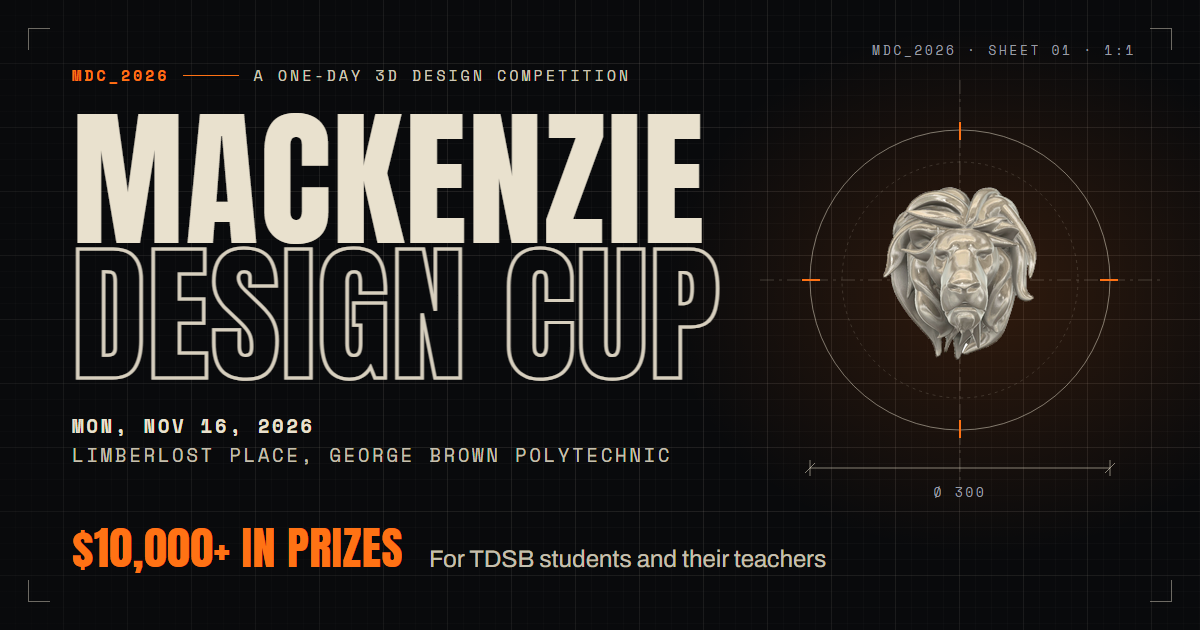
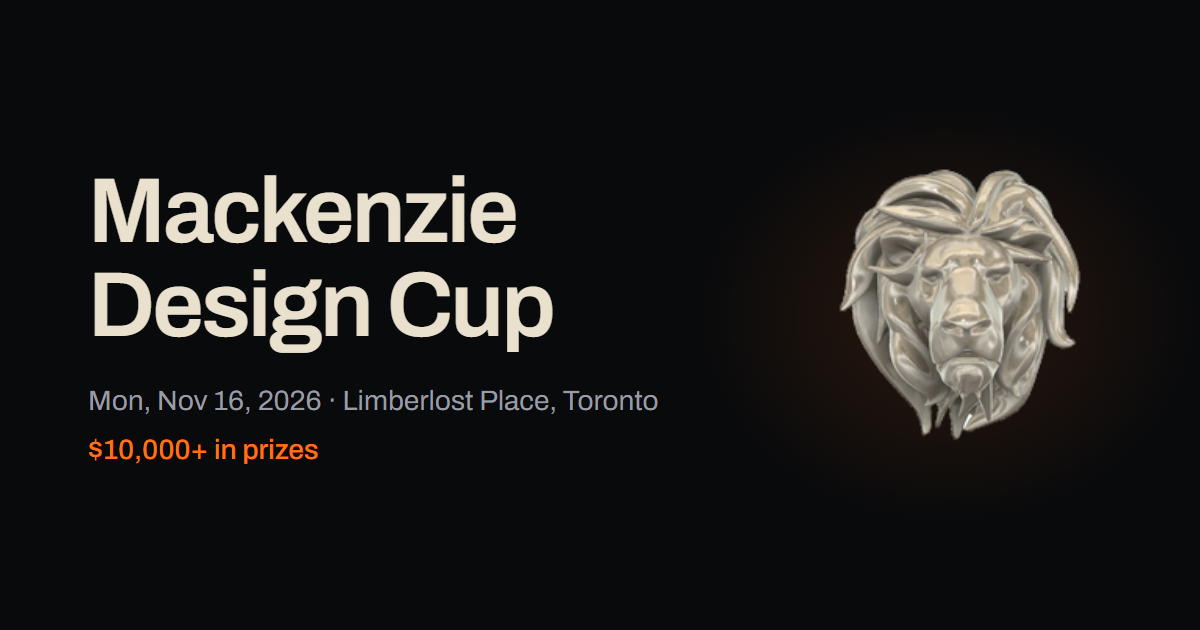
Social card in the site's minimal look: Archivo name, one grey line, prize in ember, the lion
Drops the grid, crop marks, mono labels and sheet number.

diff --git a/scripts/og/og.html b/scripts/og/og.html
@@ -1,19 +1,18 @@
 <!doctype html>
 <!--
-  The 1200x630 social card (public/og-image.png). A typed card composed from
-  the brand: the drafting-hall grid, the lion mark, the Anton wordmark, the
-  date and venue, the prize pool and who it is for. No stock, no AI.
+  The 1200x630 social card (public/og-image.png), in the site's quiet look:
+  the near-black page, the name set like a section heading (Archivo 600,
+  sentence case), one grey line for when and where, the prize pool in
+  ember, and the lion with the hall's one warm light behind it. No grid,
+  no mono labels. No stock, no AI.
   Rendered by scripts/og/render.mjs, which fills every double-brace slot from
   src/config/site.ts + src/content/copy.ts (via the SSR bundle) and inlines
-  the fonts and the lion as data URIs.
+  the font and the lion as data URIs.
 -->
 <html lang="en-CA">
 <head>
 <meta charset="UTF-8" />
 <style>
-  @font-face { font-family: "Anton"; src: url({{fontAnton}}) format("woff2"); font-weight: 400; }
-  @font-face { font-family: "Space Mono"; src: url({{fontMono}}) format("woff2"); font-weight: 400; }
-  @font-face { font-family: "Space Mono"; src: url({{fontMonoBold}}) format("woff2"); font-weight: 700; }
   @font-face { font-family: "Archivo"; src: url({{fontArchivo}}) format("woff2"); font-weight: 100 900; }
 
   :root {
@@ -26,109 +25,32 @@
   html, body { width: 1200px; height: 630px; background: var(--bg); overflow: hidden; }
   body { position: relative; color: hsl(var(--bone)); font-family: "Archivo", sans-serif; }
 
-  /* Two-level drafting grid, faded toward the edges. */
-  .grid {
-    position: absolute; inset: 0;
-    background-image:
-      linear-gradient(hsl(var(--bone) / 0.075) 1px, transparent 1px),
-      linear-gradient(90deg, hsl(var(--bone) / 0.075) 1px, transparent 1px),
-      linear-gradient(hsl(var(--bone) / 0.03) 1px, transparent 1px),
-      linear-gradient(90deg, hsl(var(--bone) / 0.03) 1px, transparent 1px);
-    background-size: 64px 64px, 64px 64px, 16px 16px, 16px 16px;
-    background-position: -1px -1px;
-    -webkit-mask-image: radial-gradient(120% 110% at 70% 45%, #000 35%, transparent 100%);
-            mask-image: radial-gradient(120% 110% at 70% 45%, #000 35%, transparent 100%);
-  }
-  /* Portal light from the right, the hall's one warm source. */
+  /* The hall's one warm source, behind the lion. */
   .glow {
     position: absolute; inset: 0;
-    background: radial-gradient(38% 60% at 82% 46%, hsl(var(--ember) / 0.16), transparent 70%);
+    background: radial-gradient(30% 48% at 79% 50%, hsl(var(--ember) / 0.14), transparent 70%);
   }
 
-  .crop { position: absolute; width: 22px; height: 22px; border-color: hsl(var(--bone) / 0.45); border-style: solid; border-width: 0; }
-  .crop.tl { left: 28px; top: 28px; border-left-width: 1px; border-top-width: 1px; }
-  .crop.tr { right: 28px; top: 28px; border-right-width: 1px; border-top-width: 1px; }
-  .crop.bl { left: 28px; bottom: 28px; border-left-width: 1px; border-bottom-width: 1px; }
-  .crop.br { right: 28px; bottom: 28px; border-right-width: 1px; border-bottom-width: 1px; }
-
-  .mono { font-family: "Space Mono", monospace; text-transform: uppercase; letter-spacing: 0.2em; }
-
-  .sheet { position: absolute; right: 64px; top: 40px; font-size: 13px; color: hsl(var(--concrete)); }
-
-  .copy { position: absolute; left: 72px; top: 64px; width: 700px; }
-  .eyebrow { display: flex; align-items: center; gap: 14px; font-size: 15px; color: hsl(var(--bone) / 0.9); }
-  .eyebrow .n { color: hsl(var(--ember)); font-weight: 700; }
-  .eyebrow .rule { width: 56px; height: 1px; background: hsl(var(--ember)); }
-
+  .copy { position: absolute; left: 88px; top: 0; bottom: 0; width: 660px; display: flex; flex-direction: column; justify-content: center; }
   h1 {
-    margin-top: 26px;
-    font-family: "Anton", sans-serif; font-weight: 400; text-transform: uppercase;
-    font-size: 150px; line-height: 0.9; letter-spacing: 0.01em;
+    font-weight: 600; font-size: 92px; line-height: 1.02; letter-spacing: -0.03em;
     color: hsl(var(--bone));
   }
-  h1 .wire { color: transparent; -webkit-text-stroke: 3px hsl(var(--bone) / 0.92); }
+  .when { margin-top: 30px; font-size: 28px; line-height: 1.35; color: hsl(var(--concrete)); }
+  .prize { margin-top: 14px; font-size: 28px; font-weight: 500; color: hsl(var(--ember)); }
 
-  .when {
-    margin-top: 30px; font-size: 19px; line-height: 1.55; letter-spacing: 0.14em; color: hsl(var(--bone) / 0.86);
-  }
-  .when b { font-weight: 700; color: hsl(var(--bone)); }
-  .foot { position: absolute; left: 72px; bottom: 58px; display: flex; align-items: baseline; gap: 26px; }
-  .prize {
-    font-family: "Anton", sans-serif; text-transform: uppercase; font-size: 46px; line-height: 1;
-    color: hsl(var(--ember)); letter-spacing: 0.01em;
-  }
-  .who { font-size: 24px; font-weight: 400; color: hsl(var(--bone) / 0.86); }
-
-  /* The mark in a construction frame: circle, centre lines, dimension. */
-  .mark { position: absolute; left: 790px; top: 110px; width: 340px; height: 340px; }
-  .mark svg { position: absolute; inset: 0; overflow: visible; }
-  .mark img { position: absolute; left: 74px; top: 74px; width: 192px; height: 192px; }
-  .dim-label { position: absolute; left: 0; right: 0; top: 372px; text-align: center; font-size: 13px; color: hsl(var(--concrete)); }
+  .mark { position: absolute; left: 810px; top: 165px; width: 300px; height: 300px; }
 </style>
 </head>
 <body>
-  <div class="grid"></div>
   <div class="glow"></div>
-  <i class="crop tl"></i><i class="crop tr"></i><i class="crop bl"></i><i class="crop br"></i>
-
-  <div class="sheet mono">{{model}} · Sheet 01 · 1:1</div>
 
   <div class="copy">
-    <div class="eyebrow mono"><span class="n">{{model}}</span><span class="rule"></span><span>{{kicker}}</span></div>
-    <h1><span>{{h1a}}</span><br /><span class="wire">{{h1b}}</span></h1>
-    <p class="when mono"><b>{{date}}</b><br />{{venue}}</p>
+    <h1>{{h1a}}<br />{{h1b}}</h1>
+    <p class="when">{{date}} · {{venue}}</p>
+    <p class="prize">{{prize}}</p>
   </div>
 
-  <div class="foot">
-    <span class="prize">{{prize}}</span>
-    <span class="who">{{audience}}</span>
-  </div>
-
-  <div class="mark">
-    <svg viewBox="0 0 340 340" aria-hidden="true">
-      <!-- centre lines, running past the circle like a drafting construction -->
-      <line x1="-30" y1="170" x2="370" y2="170" stroke="hsl(42 38% 86% / 0.22)" stroke-width="1" stroke-dasharray="14 5 3 5" />
-      <line x1="170" y1="-30" x2="170" y2="370" stroke="hsl(42 38% 86% / 0.22)" stroke-width="1" stroke-dasharray="14 5 3 5" />
-      <circle cx="170" cy="170" r="150" fill="none" stroke="hsl(42 38% 86% / 0.5)" stroke-width="1" />
-      <circle cx="170" cy="170" r="118" fill="none" stroke="hsl(42 38% 86% / 0.16)" stroke-width="1" stroke-dasharray="3 4" />
-      <!-- ember quadrant ticks -->
-      <g stroke="hsl(24 100% 54%)" stroke-width="2">
-        <line x1="170" y1="12" x2="170" y2="30" />
-        <line x1="328" y1="170" x2="310" y2="170" />
-        <line x1="170" y1="328" x2="170" y2="310" />
-        <line x1="12" y1="170" x2="30" y2="170" />
-      </g>
-      <!-- dimension: the circle's diameter -->
-      <g stroke="hsl(42 38% 86% / 0.55)" stroke-width="1">
-        <line x1="20" y1="358" x2="320" y2="358" />
-        <line x1="20" y1="350" x2="20" y2="366" />
-        <line x1="320" y1="350" x2="320" y2="366" />
-        <line x1="15" y1="363" x2="25" y2="353" />
-        <line x1="315" y1="363" x2="325" y2="353" />
-      </g>
-    </svg>
-    <img src="{{lion}}" alt="" />
-    <div class="dim-label mono">{{dim}}</div>
-  </div>
+  <img class="mark" src="{{lion}}" alt="" />
 </body>
 </html>

diff --git a/src/entry-server.tsx b/src/entry-server.tsx
@@ -18,11 +18,10 @@ import {
   EVENT_DATE_SHORT,
   EVENT_FULL,
   EVENT_WEEKDAY,
-  KICKER,
-  MODEL_NO,
   PRIZE_POOL,
   VENUE_ADDRESS,
   VENUE_BUILDING,
+  VENUE_CITY,
   VENUE_INSTITUTION,
   VENUE_STREET,
 } from "./config/site";
@@ -63,10 +62,9 @@ export const CONTENT_CHECKS = {
 export const OG_CARD = {
   name: EVENT_FULL,
   h1: HERO.h1,
-  model: MODEL_NO,
-  kicker: KICKER,
   date: `${EVENT_WEEKDAY.slice(0, 3)}, ${EVENT_DATE_SHORT}`,
   venue: `${VENUE_BUILDING}, ${VENUE_INSTITUTION}`,
+  /** The card's one where line: building and city. */
+  place: `${VENUE_BUILDING}, ${VENUE_CITY}`,
   prize: `${PRIZE_POOL} in prizes`,
-  audience: "For TDSB students and their teachers",
 };

diff --git a/src/seo/routes.ts b/src/seo/routes.ts
@@ -203,7 +203,7 @@ export const OG_IMAGE = {
   width: 1200,
   height: 630,
   type: "image/png",
-  alt: `The ${EVENT_FULL} card: a lion mark on a drafting grid, ${EVENT_WEEKDAY}, ${EVENT_DATE_SHORT}, at ${VENUE_NAME}, and ${PRIZE_POOL} in prizes.`,
+  alt: `The ${EVENT_FULL} card: the name beside the lion mark, ${EVENT_WEEKDAY}, ${EVENT_DATE_SHORT}, at ${VENUE_NAME}, and ${PRIZE_POOL} in prizes.`,
 } as const;
 
 /** Indexable pages also allow large image previews (Discover, AI answers). */
